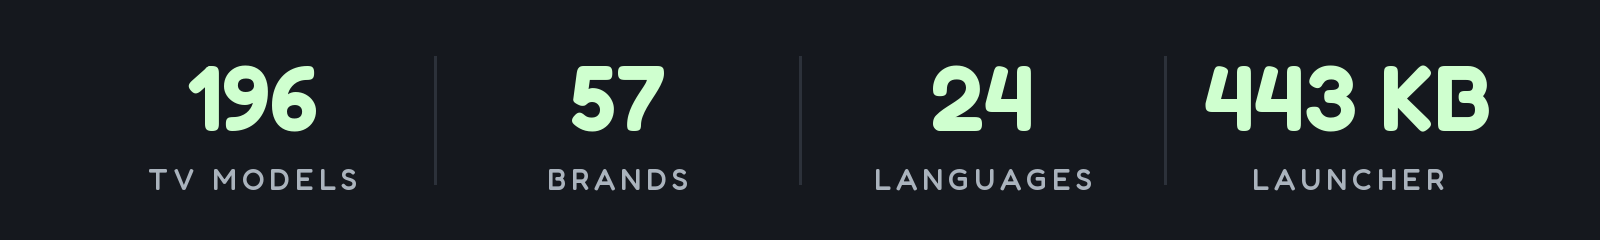
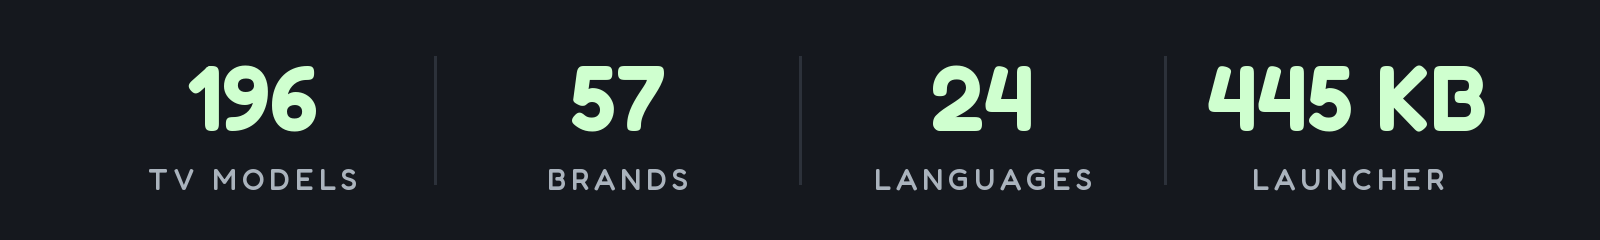
README: launcher about 445 KB with the nine opt-in switches; card redrawn

Changed region(s): [[0.75, 0.2625, 0.9375, 0.5542]]

diff --git a/tools/readme_stats.py b/tools/readme_stats.py
@@ -5,7 +5,7 @@ and rebuild the card with tools/readme_card.py. Fredoka is the variable TTF from
 import sys
 from PIL import Image, ImageDraw, ImageFont
 FONT, OUT = sys.argv[1], sys.argv[2]
-STATS = [("196", "TV MODELS"), ("57", "BRANDS"), ("24", "LANGUAGES"), ("443 KB", "LAUNCHER")]
+STATS = [("196", "TV MODELS"), ("57", "BRANDS"), ("24", "LANGUAGES"), ("445 KB", "LAUNCHER")]
 W, H = 1600, 240
 img = Image.new("RGB", (W, H), "#15181e"); d = ImageDraw.Draw(img)
 def f(size, wt):

diff --git a/README.md b/README.md
@@ -18,7 +18,7 @@
 </p>
 
 <p align="center">
-  <a href="docs/PRESS.md"><img src="docs/card.jpg" alt="196 TV models · 57 brands · 24 languages · 443 KB launcher. Featured in TechCrunch, TechRadar, Tom's Guide, Mashable, Android Authority, XDA, FlatpanelsHD, It's FOSS, Phandroid, GIGAZINE, Xataka, WinFuture, Frandroid, Macitynet, Techaeris, TechPP and 64 more: 80 articles from 22 countries. Before: stock Google TV home with a sponsored ad. After: the Clean Your TV launcher." width="800"></a>
+  <a href="docs/PRESS.md"><img src="docs/card.jpg" alt="196 TV models · 57 brands · 24 languages · 445 KB launcher. Featured in TechCrunch, TechRadar, Tom's Guide, Mashable, Android Authority, XDA, FlatpanelsHD, It's FOSS, Phandroid, GIGAZINE, Xataka, WinFuture, Frandroid, Macitynet, Techaeris, TechPP and 64 more: 80 articles from 22 countries. Before: stock Google TV home with a sponsored ad. After: the Clean Your TV launcher." width="800"></a>
 </p>
 
 **The viral tweet:** [x.com/gathint/status/2111379569030939102](https://x.com/gathint/status/2111379569030939102)
@@ -341,7 +341,7 @@ tools/theme.sh themes/aurora                                 # push a theme; --r
 | [`tools/privacy.py`](tools/privacy.py) | Audits the TV for voice, ACR and telemetry candidates and prints the evidence for each; `--write` turns the findings into a list `disable.sh` and `restore.sh` already understand. |
 | [`tools/theme.sh`](tools/theme.sh) | Push a folder from [`themes/`](themes/) to the launcher and restart Home. |
 | [`tools/race_calendar.py`](tools/race_calendar.py) | Writes this season's F1 calendar into a theme for race-weekend mode, from the free Jolpica API. |
-| [`launcher/build-and-install.sh`](launcher/build-and-install.sh) | Builds a shrunk release (about 443 KB), installs it, switches Home, and rolls back if Home does not land on it. |
+| [`launcher/build-and-install.sh`](launcher/build-and-install.sh) | Builds a shrunk release (about 445 KB), installs it, switches Home, and rolls back if Home does not land on it. |
 
 The scripts never leave the TV without a Home app: they only disable a stock launcher they recognise,
 and skip the Home app in a list until another launcher answers HOME. Details below.
@@ -410,7 +410,7 @@ apps), which is why the report names that loss per package instead of calling it
 
 ## The launcher
 
-A small native home screen for Android TV: **about 443 KB**, plain Java, built for TVs with 1 GB of RAM.
+A small native home screen for Android TV: **about 445 KB**, plain Java, built for TVs with 1 GB of RAM.
 No blur, no video, no network permission, no background services.
 
 The **TV** needs Android 8.0 (API 26) or newer: `minSdk` is a compile-time floor in
